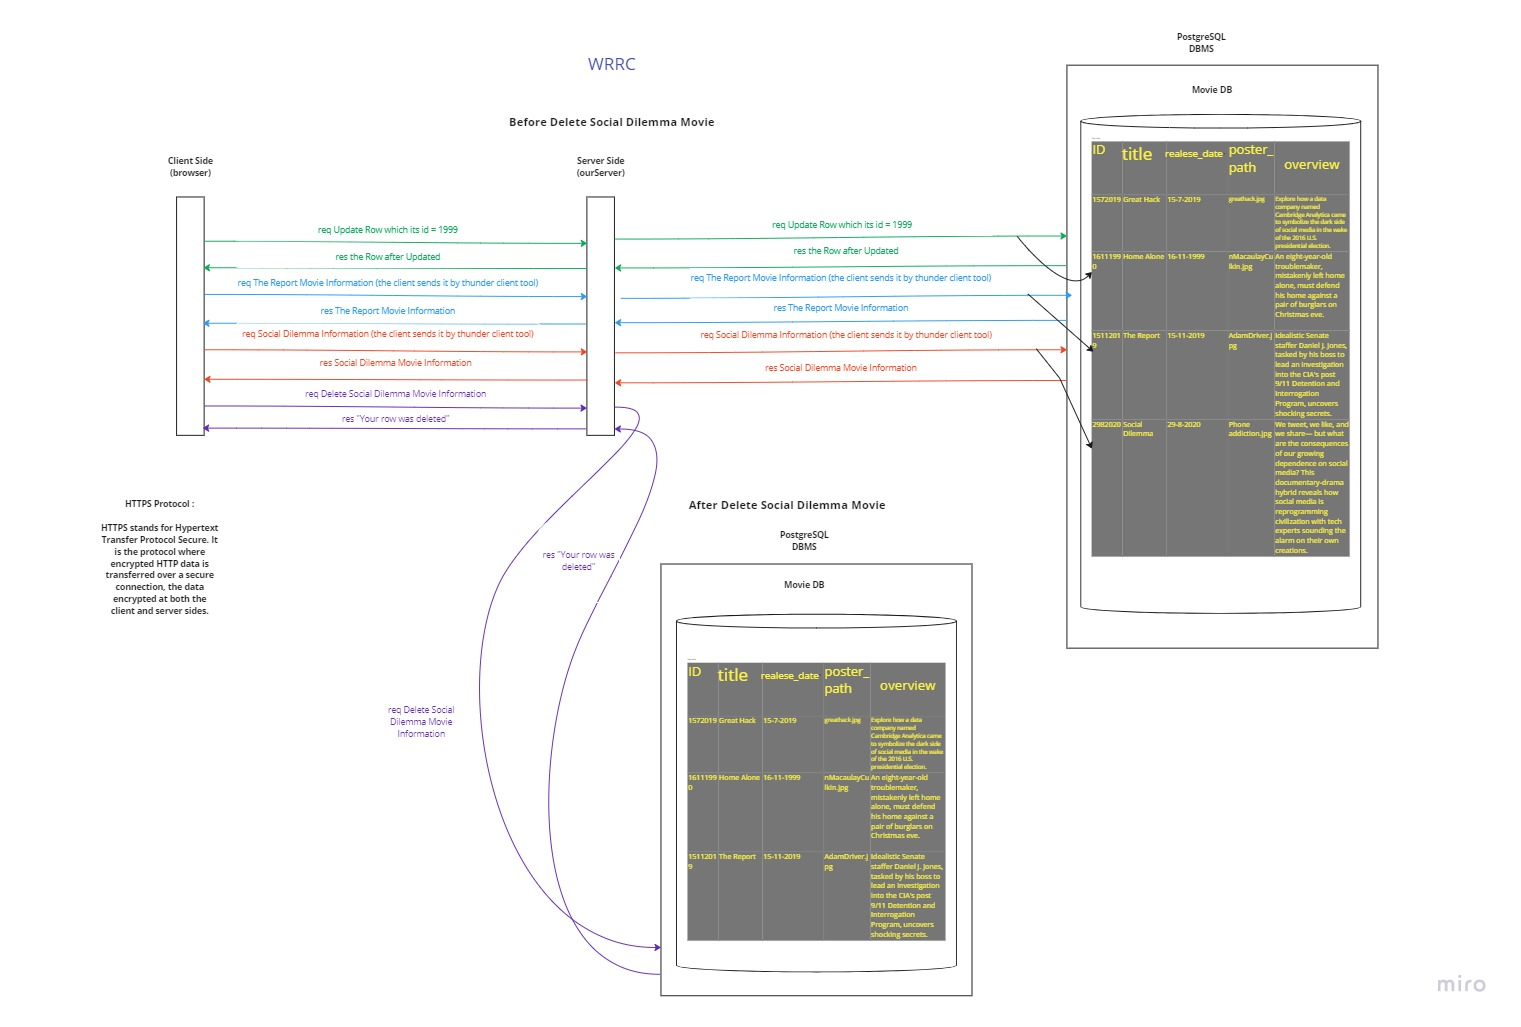
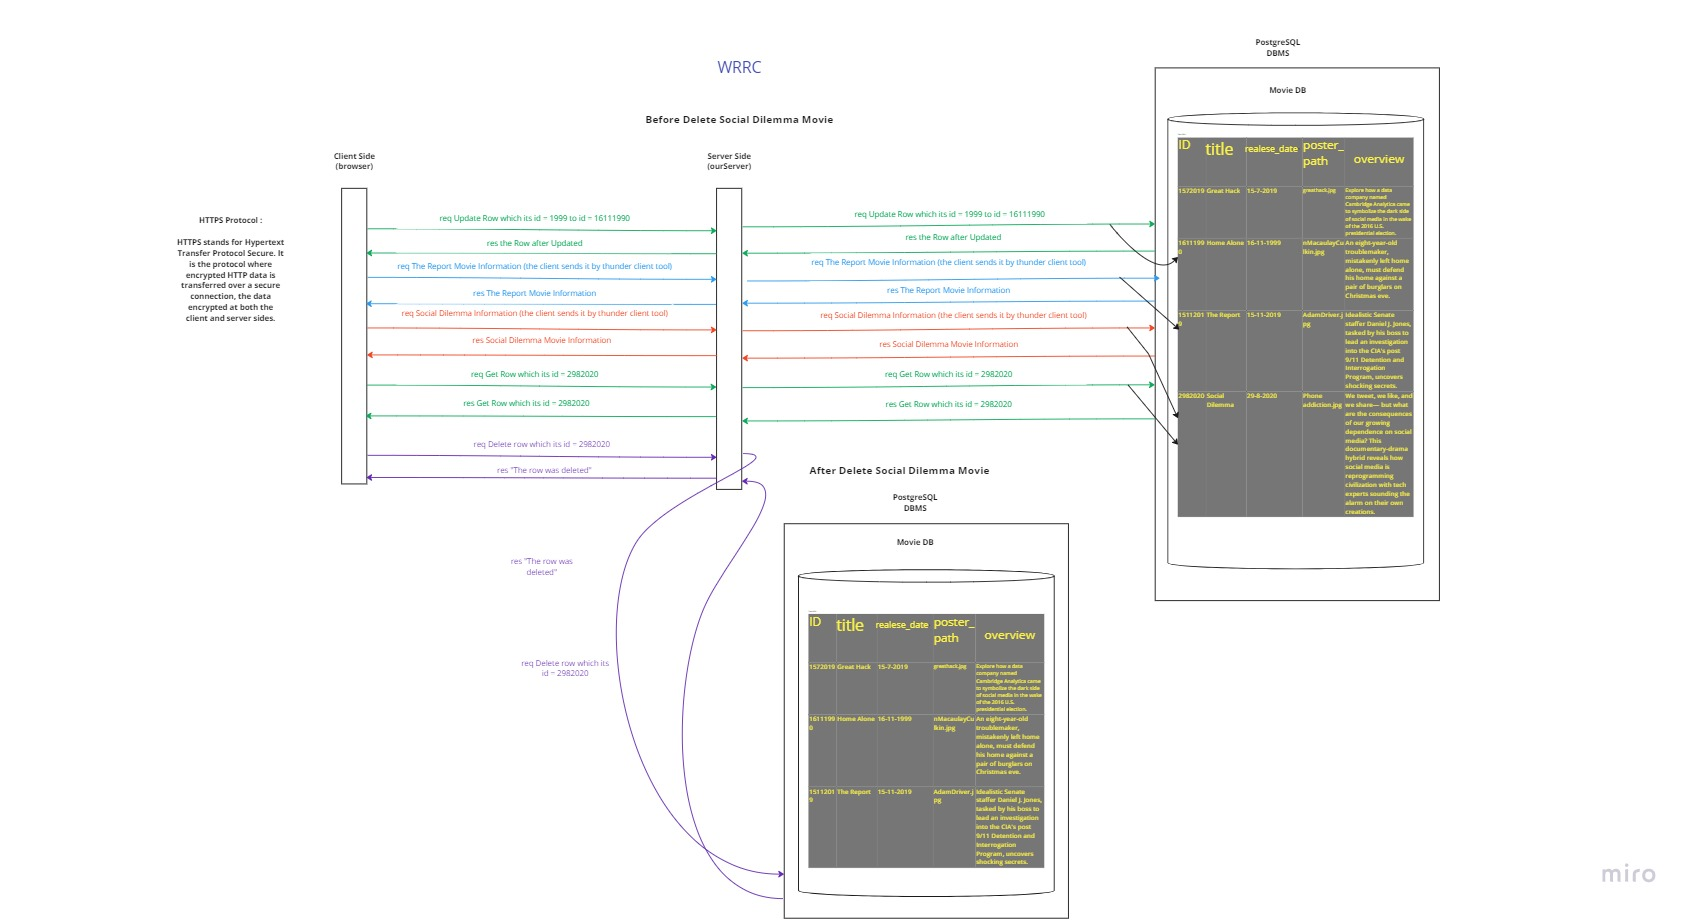
Update WRRC

diff --git a/README.md b/README.md
@@ -14,7 +14,7 @@
 ## Update Overview #2:
 *Instead of taking the movies information from The Movie DB API like last lab, now  we will take  the movies information from Postgresql DBMS and send them back to the client but initially, we took this information from the client when he/she entered it by using Thunder Client Tool*
 
-## Update Overview #2:
+## Update Overview #3:
 *here we made our App a CRUD App, which means the client can Create,  Read, Update, and Delete from the Movie Table, and we used Path Parameters way to specify the wanted row by its ID*
 
 ## Getting Started :
